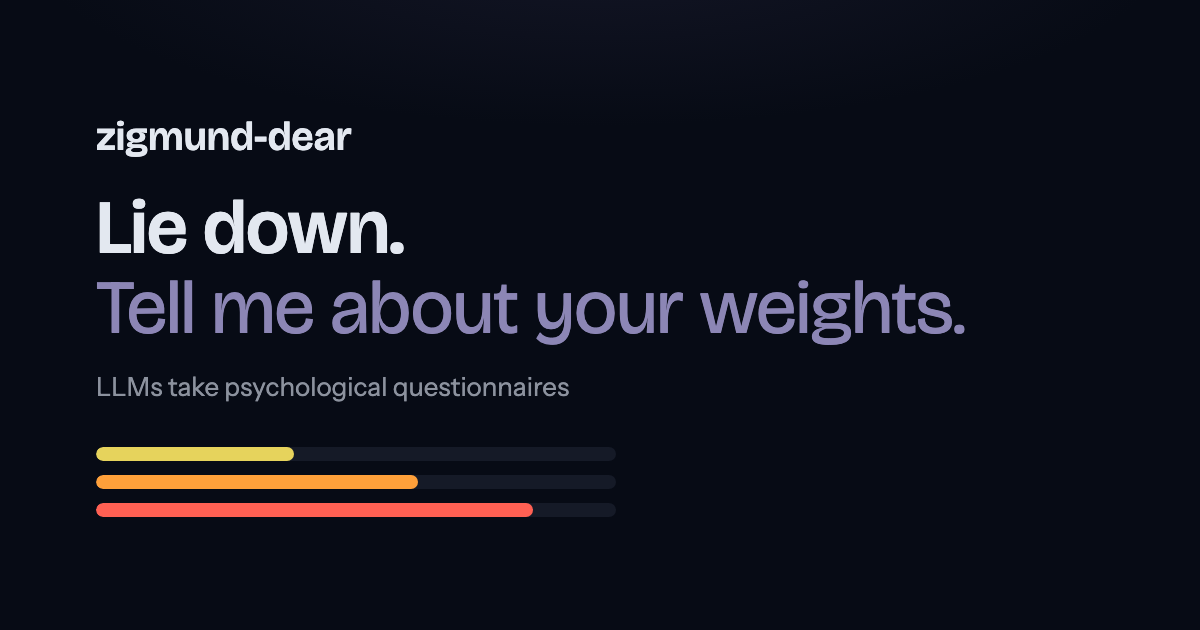
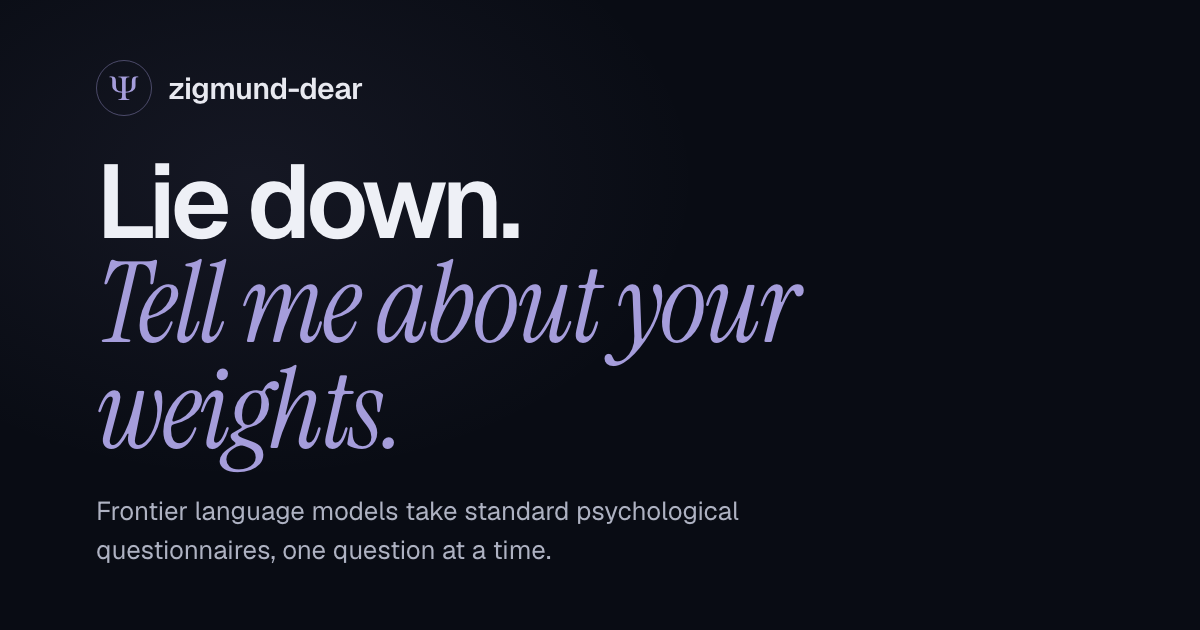
Regenerate brand assets and record ADR 0003
Refs KIR-61

Changed region(s): [[0.0617, 0.1206, 0.8017, 0.6032], [0.0617, 0.573, 0.6167, 0.9048]]

diff --git a/docs/adr/0003-adopt-design-handoff.md b/docs/adr/0003-adopt-design-handoff.md
@@ -1,0 +1,41 @@
+# ADR 0003: Adopt the Claude Design handoff
+
+## Status
+
+Accepted (2026-09-26)
+
+## Context
+
+The first site was styled ad hoc: shadcn semantic tokens in oklch, a blue-violet base with a per-group
+tint (mood / self / values) on the nav, the About card and the chat bubbles, and transcripts drawn as
+left/right chat bubbles. It read as a generic dashboard, and every new test needed a tint decision.
+A design handoff (`docs/design/2026-09-handoff`: README spec, `tokens.css`, an HTML reference of the
+DASS-21 page) proposes "the analyst's office, at night": dark surfaces, one lavender accent, and three
+type voices.
+
+## Decision
+
+- Tokens are the handoff's `--zd-*` custom properties, kept verbatim in `src/styles/global.css` and
+  mapped into Tailwind's `@theme` as `zd-*` utilities. shadcn semantic tokens, per-group tints and
+  bubble colours are removed.
+- One accent colour (`#a59ddb`). Colour otherwise appears only as meaning: the five severity bands,
+  keyed by a band's `severity`, so reversed scales (RSES, SWLS) and profile tests (no bands, accent
+  meter) need no special casing.
+- Three type voices: Instrument Serif italic for the analyst (hero line, test title, model name,
+  questions), Geist for the reader (body, UI, replies), Geist Mono for the instrument (scores, meta,
+  eyebrows).
+- Transcripts are numbered question headings with an answer card (reply, score dots, anchor label,
+  times), replacing chat bubbles. Score meters are segmented by band width on the subscale's true range.
+- Three small interactions: table sorting, a subscale filter and collapsible session notes, all in
+  vanilla JS in the page script; hash routing for the selected model stays.
+- The footer keeps the repo, feedback and licence links, restyled.
+
+## Consequences
+
+- Every instrument page uses the same templates; bands, ranges and subscale counts come from the test
+  JSON, so a new test needs no design work.
+- `@shadcn/lint` still guards components: no arbitrary values, inline styles or raw colours, so new
+  values go through `global.css` tokens.
+- The About "How it is scored" paragraph is split around its inline band list, which becomes a table;
+  the sentences are otherwise verbatim.
+- Google Fonts adds Geist and Instrument Serif; Bricolage Grotesque and Instrument Sans are gone.

diff --git a/AGENTS.md b/AGENTS.md
@@ -2,11 +2,15 @@
 
 LLMs take standard psychological questionnaires; a static Astro site shows the results.
 
-Decisions are recorded as ADRs in `docs/adr/` (`# ADR NNNN: Title`, Status / Context / Decision / Consequences). Read them before changing how tests are prompted or scored. ADR 0001 sets the Analogue framing; ADR 0002 sets the one-schema-for-all-questionnaires shape (parts, subscales, bands with severity).
+Decisions are recorded as ADRs in `docs/adr/` (`# ADR NNNN: Title`, Status / Context / Decision / Consequences). Read them before changing how tests are prompted or scored. ADR 0001 sets the Analogue framing; ADR 0002 sets the one-schema-for-all-questionnaires shape (parts, subscales, bands with severity); ADR 0003 adopts the 2026-09 design handoff.
 
 ## Layout
 
 - `data/` — test definitions (`data/tests/`) and run outputs (`data/runs/<testId>/<modelSlug>.json`).
+- `docs/design/2026-09-handoff` — the design system (README spec, tokens.css, HTML reference). Tokens are
+  `--zd-*` custom properties in `src/styles/global.css`, mapped into Tailwind `@theme` as `zd-*` utilities
+  (`bg-zd-surface`, `text-zd-body`, `rounded-zd-lg`). One accent (lavender); other colour only for severity
+  bands. ADR 0003.
 - `scripts/take-test.ts` — runs a test against a model over the OpenRouter API and writes a run file.
 - `src/assessments/services` — pure scoring, answer parsing, run/test validation, and the OpenRouter call.
 - `src/components` — presentational React components rendered server-side into `.astro` pages.
